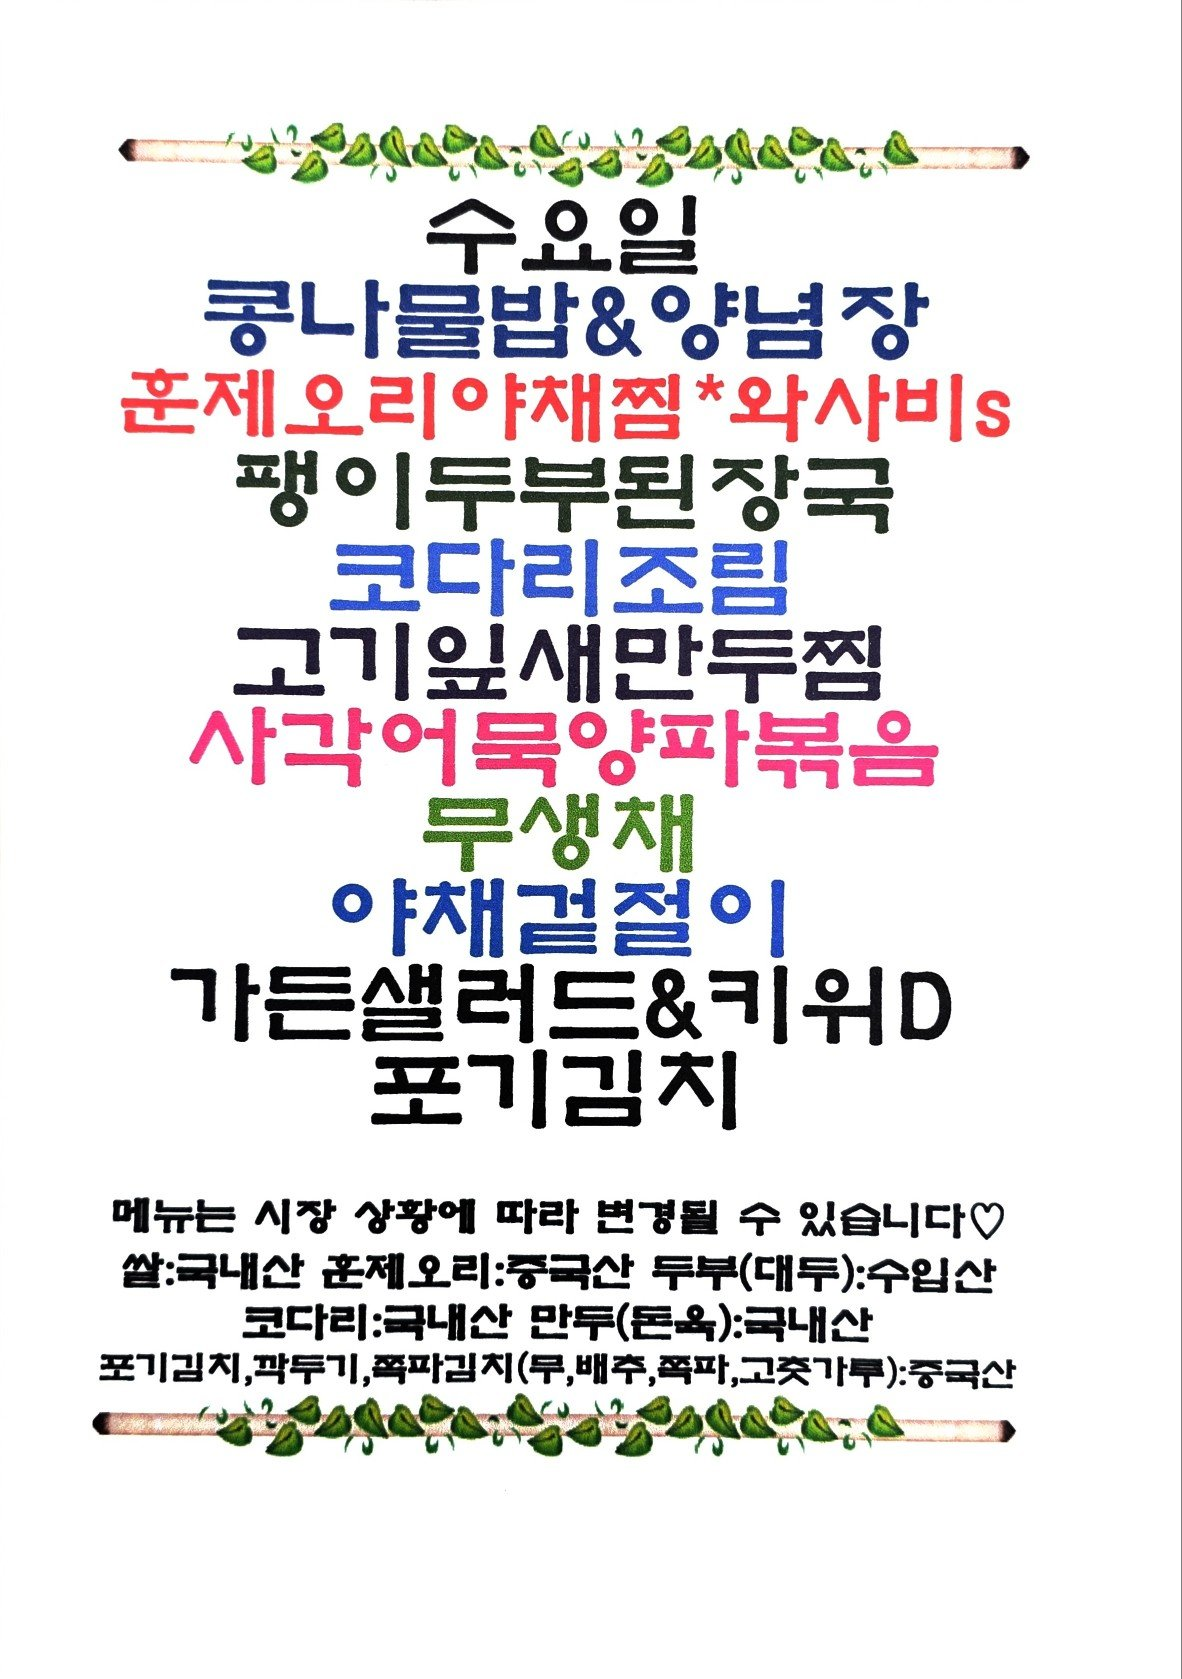
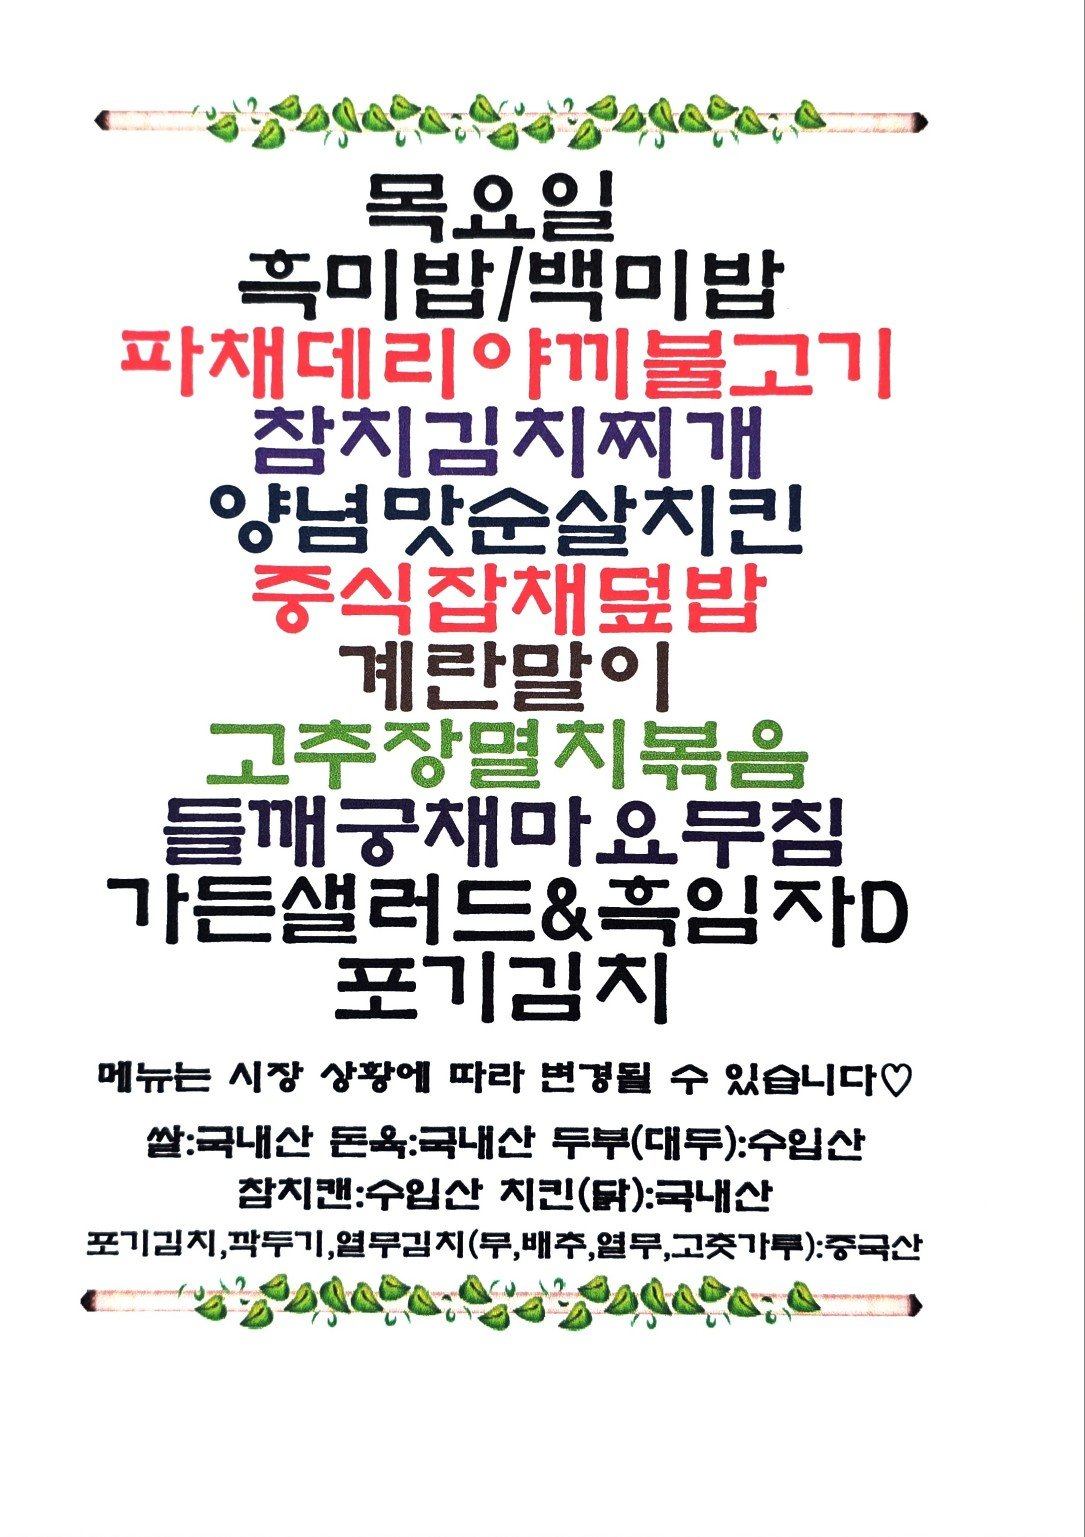
Update menu board assets

Changed region(s): [[0.0608, 0.0625, 0.882, 0.8744]]

diff --git a/menu-today/index.html b/menu-today/index.html
@@ -209,7 +209,7 @@
 
     <section class="meta-bar">
       <div class="meta-card"><div class="meta-label">기준 날짜</div><div class="meta-value">2026년 9월 10일 목요일</div></div>
-      <div class="meta-card"><div class="meta-label">최종 가져온 시간</div><div class="meta-value">2026-09-10 09:33:09</div></div>
+      <div class="meta-card"><div class="meta-label">최종 가져온 시간</div><div class="meta-value">2026-09-10 09:48:12</div></div>
       <div class="meta-card"><div class="meta-label">확인 완료</div><div class="meta-value">9개 식당</div></div>
       <div class="meta-card"><div class="meta-label">준비중</div><div class="meta-value">3개 채널</div></div>
     </section>
@@ -305,7 +305,7 @@
             <div class="sub">스타밸리</div>
           </div>
         </div>
-        <div class="menu-inline-image"><img src="./images/starvalley-food4u-post.png" alt="스타밸리푸드포유 식단 이미지"></div><div class="info-note">오늘 메뉴 미수집 상태입니다.</div>
+        <div class="menu-inline-image"><img src="./images/starvalley-food4u-post.png" alt="스타밸리푸드포유 식단 이미지"></div><ul><li>흑미밥 / 백미밥</li><li>참치김치찌개</li><li>양넘맛순살치킨</li><li>계란말이</li><li>고주장멸치볶음</li><li>들깨구재마요무짐</li><li>가든샐러드 &amp; 흑임자D</li><li>포기김치</li><li>목요일</li><li>데리야끼돼지불고기</li></ul>
       </article>
     </section>
 

diff --git a/guro-menu/index.html b/guro-menu/index.html
@@ -32,7 +32,7 @@
   </header>
   <section class="meta">
     <div><small>기준 날짜</small><strong>2026년 9월 10일 목요일</strong></div>
-    <div><small>최종 갱신</small><strong>2026-09-10 09:33:22</strong></div>
+    <div><small>최종 갱신</small><strong>2026-09-10 09:48:28</strong></div>
     <div><small>등록 식당</small><strong>5개</strong></div>
   </section>
   <div class="notice">공개 카카오 채널의 메뉴 이미지를 자동 수집하고 OCR로 정리합니다. 텍스트에 오타가 있을 수 있으니 식단 이미지를 함께 확인해 주세요.</div>
